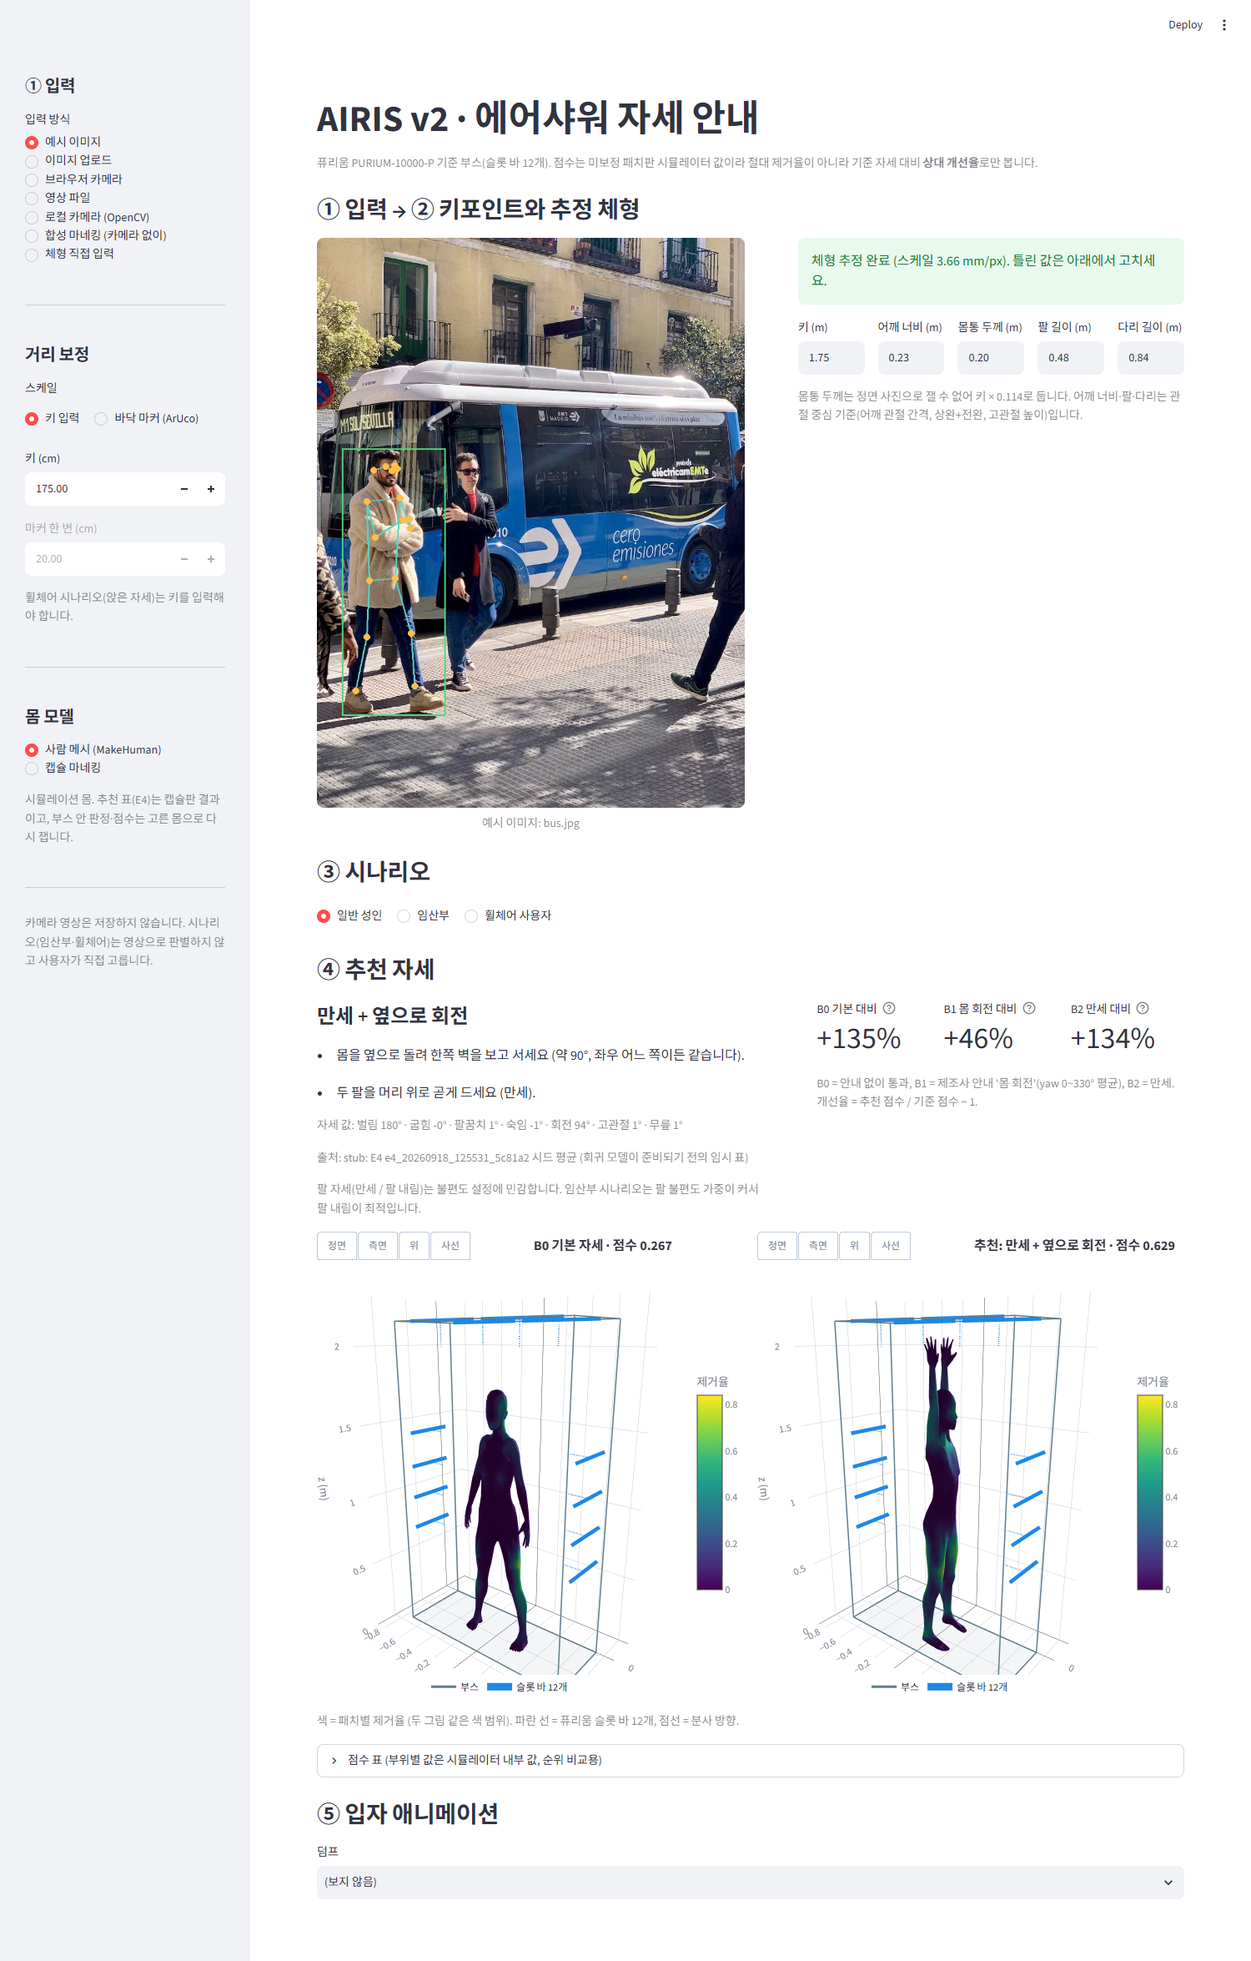
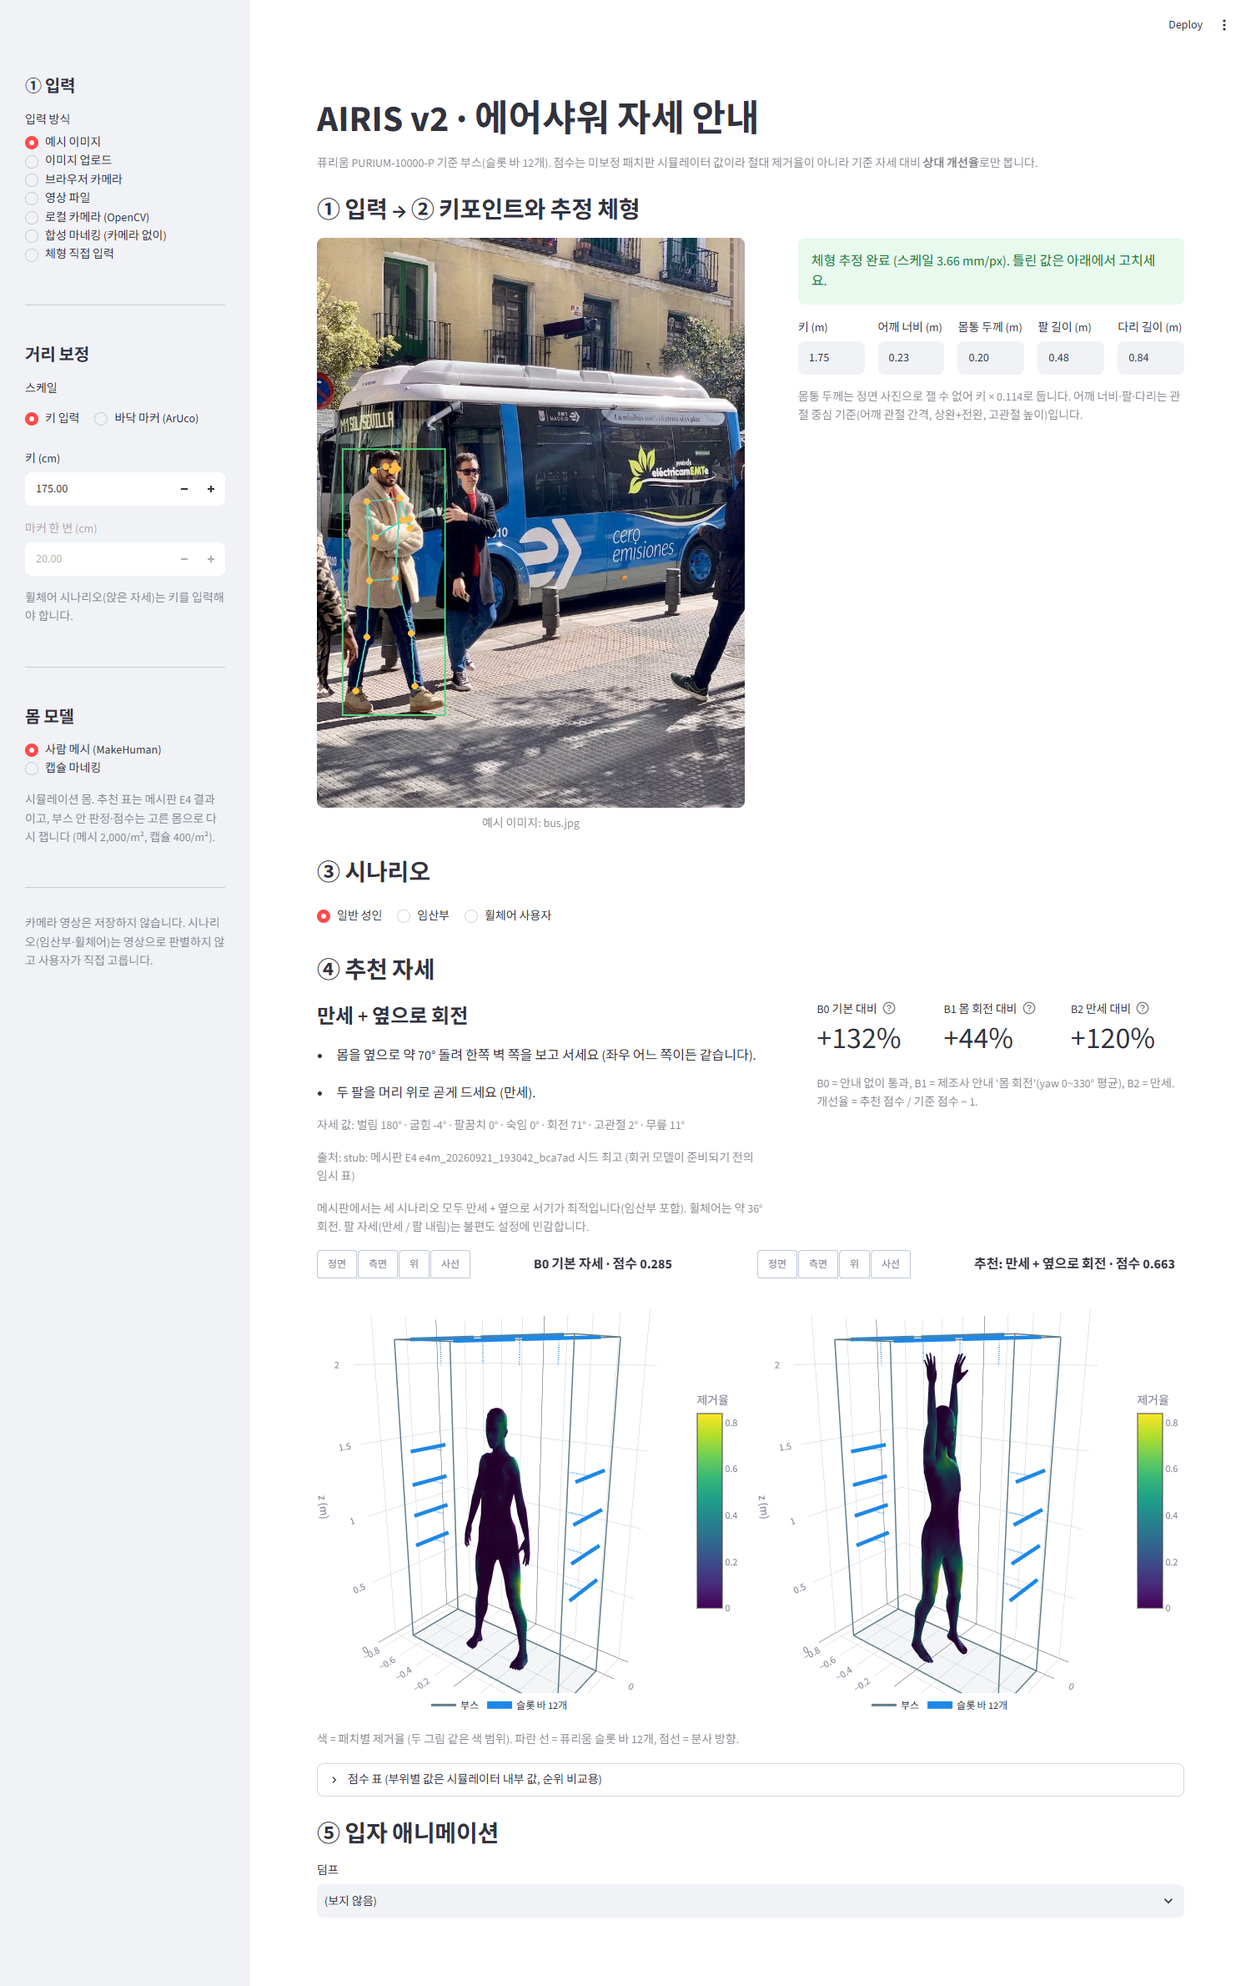
feat: 추천 스텁을 메시판 E4 결과로 갱신, 메시 재채점 2,000/m², 옆으로 서기 안내에 실제 각도

diff --git a/airis/realtime/recommend.py b/airis/realtime/recommend.py
@@ -4,7 +4,7 @@
 
 1. C의 회귀 모델 `airis.model.predict.predict_pose` (4주차, `docs/interfaces.md` "회귀 모델")와
    학습 산출물 `data/models/pose_regressor.joblib`이 있으면 그것을 쓴다.
-2. 없으면 **스텁**: E4 정식 결과의 시나리오별 최적 자세 표(`STUB_TABLE`)를 돌려준다.
+2. 없으면 **스텁**: 메시판 E4 정식 결과의 시나리오별 최적 자세 표(`STUB_TABLE`)를 돌려준다.
    표는 봉우리 후보다(만세 + 옆으로 회전, 팔 내림 + 옆으로 회전). 키가 커서 만세가 천장에
    닿는 체형이면 D의 `outside_booth`로 거르고, 남은 후보는 이 체형으로 패치판 점수를 재서 고른다
    (표는 기본 체형 결과라 체형이 다르면 순위가 바뀔 수 있다).
@@ -15,8 +15,11 @@
 않는다. 결과는 절대 제거율이 아니라 기준 자세(B0·B1·B2) 대비 **상대 개선율**로 보여 준다.
 
 몸 모델: 함수마다 `model`(`"mesh"` | `"capsule"` | None = `configs/physics.yaml` `body.model`)을 받는다.
-`body`가 None이면 그 모델의 기본 체형(메시 `MESH_DEFAULT_BODY`, 캡슐 `BodyParams()`)이다. 추천 표는 캡슐판
-E4 결과지만, 부스 안 판정과 후보 채점은 고른 몸 모델로 다시 한다.
+`body`가 None이면 그 모델의 기본 체형(메시 `MESH_DEFAULT_BODY`, 캡슐 `BodyParams()`)이다. 추천 표 첫 후보는
+메시판 E4 결과이고, 부스 안 판정과 후보 채점은 고른 몸 모델로 다시 한다.
+
+패치 밀도 (`scoring_patches_per_m2`): 메시 2,000/m² (C 메시판 E4 재채점 기준. 400/m² 는 메시에서 점수가
+±10~16% 흔들린다, 1회 약 40~60 ms), 캡슐 400/m² (캡슐판 E4·최적화 루프 기준, 1회 약 25 ms).
 """
 from __future__ import annotations
 
@@ -31,8 +34,15 @@ from ..sim.patch_baseline import PatchEvaluator, outside_booth
 from ..sim.scenario import load_nozzle_layout, load_nozzles, load_physics
 from ..sim.types import PART_NAMES, BodyParams, EvalResult, PoseParams, Scenario
 
-#: 부스 안 판정·점수 계산에 쓰는 패치 밀도 (최적화 루프와 같음)
+#: 캡슐 몸의 부스 안 판정·점수 계산 패치 밀도 (캡슐판 최적화 루프와 같음)
 PATCHES_PER_M2 = 400.0
+#: 메시 몸의 패치 밀도 (C 메시판 E4 재채점과 같음. 400/m² 는 메시에서 점수가 ±10~16% 흔들린다)
+MESH_PATCHES_PER_M2 = 2000.0
+
+
+def scoring_patches_per_m2(model: str | None = None) -> float:
+    """몸 모델별 채점 패치 밀도. 그림을 같은 결과로 칠하려면 같은 밀도로 `build_body` 해야 한다."""
+    return MESH_PATCHES_PER_M2 if resolve_model(model) == "mesh" else PATCHES_PER_M2
 
 
 @dataclass(frozen=True)
@@ -42,34 +52,37 @@ class StubEntry:
     source: str
 
 
-# 첫 후보 = E4 정식 결과 (패치판, 대칭 격자 main 5f353be, 시드 5개 평균, 체형 BodyParams() 기본값).
-#   default·wheelchair 는 만세 봉우리, pregnant 는 팔 내림 봉우리다 (벌림 불편도 가중이 커서).
-# 둘째 후보 = 다른 봉우리. 체형 때문에 첫 후보가 부스 밖이거나 점수가 낮을 때 쓴다. #42(패치 격자
-#   대칭화) 이전 docs/experiments.md 기록이라 값은 참고용이고, recommend() 가 이 체형으로 다시 잰다.
+# 첫 후보 = 메시판 E4 정식 결과 (e4m_20260921_193042_bca7ad: 1,500/m² 탐색 + 2,000/m² 재채점,
+#   3시나리오 × 5시드, 메시 기본 체형). 2,000/m² 재채점 최고 시드. 세 시나리오 모두 만세 + 옆으로 서기
+#   (임산부 포함), 휠체어는 약 36° 회전 (시나리오 yaw 상한 45° 안).
+#   pregnant 원 시드는 yaw 102.1 이지만 앞뒤 등가(θ ↔ 180° − θ 점수 동일)라 안내 일관성을 위해 77.9 로 쓴다.
+# 둘째 후보 = 팔 내림 봉우리 (캡슐판 E4 값, 참고). 체형 때문에 첫 후보가 부스 밖(키가 커서 만세가 천장에
+#   닿음)이거나 이 체형에서 점수가 낮을 때 쓴다. recommend() 가 이 체형·몸 모델로 다시 잰다.
 # yaw 는 좌우 대칭이라 |yaw| 로 적는다 (interfaces.md 거울 정규화).
-E4_SOURCE = "E4 e4_20260918_125531_5c81a2 시드 평균"
+E4_SOURCE = "메시판 E4 e4m_20260921_193042_bca7ad 시드 최고"
+CAPSULE_REF_SOURCE = "캡슐판 참고"
 
 STUB_TABLE: dict[str, list[StubEntry]] = {
     "default": [
         StubEntry("만세 + 옆으로 회전",
-                  PoseParams(179.8, 0.0, 1.4, -0.8, 94.2, 0.6, 1.5), E4_SOURCE),
+                  PoseParams(179.9, -4.4, 0.1, 0.2, 71.0, 1.7, 11.2), E4_SOURCE),     # 0.6544
         StubEntry("팔 내림 + 옆으로 회전",
                   PoseParams(4.8, -3.2, 3.1, 0.5, 98.1, 0.1, 0.2),
-                  "remeasure_20260918_103149_00b235 (#42 이전, 대체 후보)"),
+                  f"{CAPSULE_REF_SOURCE} (remeasure_20260918_103149_00b235, 대체 후보)"),
     ],
     "pregnant": [
-        StubEntry("팔 내림 + 옆으로 회전",
-                  PoseParams(12.5, -3.0, 7.4, -0.1, 84.6, 2.4, 5.3), E4_SOURCE),
         StubEntry("만세 + 옆으로 회전",
-                  PoseParams(180.0, 6.7, 2.6, -0.1, 97.2, 0.9, 2.1),
-                  "starts_20260918_110639_46f4dd (#42 이전, 대체 후보)"),
+                  PoseParams(179.4, -6.0, 0.0, -0.2, 77.9, 0.1, 10.6), E4_SOURCE),    # 0.6342
+        StubEntry("팔 내림 + 옆으로 회전",
+                  PoseParams(12.5, -3.0, 7.4, -0.1, 84.6, 2.4, 5.3),
+                  f"{CAPSULE_REF_SOURCE} (e4_20260918_125531_5c81a2, 대체 후보)"),
     ],
     "wheelchair": [
-        StubEntry("만세 + 몸 45° 회전",
-                  PoseParams(179.9, 7.9, 9.6, 4.4, 44.9, 90.0, 90.0), E4_SOURCE),
+        StubEntry("만세 + 몸 36° 회전",
+                  PoseParams(179.9, 2.5, 8.9, -0.4, 35.8, 90.0, 90.0), E4_SOURCE),    # 0.4319
         StubEntry("팔 내림 + 몸 45° 회전",
                   PoseParams(0.0, -29.9, 14.5, 0.3, 45.0, 90.0, 90.0),
-                  "remeasure_20260918_103307_2bd141 (#42 이전, 대체 후보)"),
+                  f"{CAPSULE_REF_SOURCE} (remeasure_20260918_103307_2bd141, 대체 후보)"),
     ],
 }
 
@@ -105,7 +118,8 @@ def default_body(model: str | None = None) -> BodyParams:
 
 def is_inside_booth(body: BodyParams | None, pose: PoseParams, scenario: Scenario,
                     model: str | None = None) -> bool:
-    state = build_body(body, pose, scenario, patches_per_m2=PATCHES_PER_M2, model=resolve_model(model))
+    model = resolve_model(model)
+    state = build_body(body, pose, scenario, patches_per_m2=scoring_patches_per_m2(model), model=model)
     return not outside_booth(state.patch_pos, _booth())
 
 
@@ -184,7 +198,8 @@ def pose_instructions(pose: PoseParams, scenario: Scenario) -> list[str]:
     elif yaw < 60:
         lines.append(f"몸을 한쪽으로 약 {round(yaw / 5) * 5:.0f}° 돌리세요 (좌우 어느 쪽이든 같습니다).")
     elif yaw <= 120:
-        lines.append("몸을 옆으로 돌려 한쪽 벽을 보고 서세요 (약 90°, 좌우 어느 쪽이든 같습니다).")
+        lines.append(f"몸을 옆으로 약 {round(yaw / 5) * 5:.0f}° 돌려 한쪽 벽 쪽을 보고 서세요 "
+                     "(좌우 어느 쪽이든 같습니다).")
     else:
         lines.append("뒤로 돌아 들어온 문을 보고 서세요.")
 
@@ -236,11 +251,15 @@ class ScoreRow:
     result: EvalResult | None = None     # 단일 자세면 원래 결과 (패치 색칠용)
 
 
-@lru_cache(maxsize=4)
 def patch_evaluator(model: str | None = None) -> PatchEvaluator:
-    """D의 패치판 (400/m²). `model` 을 주면 그 몸 모델로 `build_body` 를 부른다 (None = 설정 파일)."""
-    bb = None if model is None else partial(build_body, model=model)
-    return PatchEvaluator(load_physics(), bb, patches_per_m2=PATCHES_PER_M2)
+    """D의 패치판. 몸 모델(None = 설정 파일)에 맞는 밀도(`scoring_patches_per_m2`)로 `build_body` 를 부른다."""
+    return _patch_evaluator(resolve_model(model))
+
+
+@lru_cache(maxsize=4)
+def _patch_evaluator(model: str) -> PatchEvaluator:
+    return PatchEvaluator(load_physics(), partial(build_body, model=model),
+                          patches_per_m2=scoring_patches_per_m2(model))
 
 
 @lru_cache(maxsize=1)
@@ -280,7 +299,7 @@ def evaluate_condition(name: str, poses: list[PoseParams], body: BodyParams | No
 
 def compare_with_baselines(body: BodyParams | None, scenario: Scenario,
                            recommended: PoseParams, model: str | None = None) -> list[ScoreRow]:
-    """[추천, B0, B1, B2] 점수. 패치판 1회 약 25 ms × 15회. 같은 몸 모델로 채점한다."""
+    """[추천, B0, B1, B2] 점수. 패치판 15회 (메시 2,000/m² 약 0.7 s, 캡슐 400/m² 약 0.4 s). 같은 몸 모델로 채점한다."""
     rows = [evaluate_condition("추천", [recommended], body, scenario, model)]
     rows += [evaluate_condition(n, ps, body, scenario, model) for n, ps in baseline_poses().items()]
     return rows

diff --git a/tests/test_realtime.py b/tests/test_realtime.py
@@ -27,6 +27,7 @@ from airis.realtime.camera import detections_from_result, draw_pose, largest_per
 from airis.realtime.recommend import (STUB_TABLE, compare_with_baselines, improvement,
                                       is_inside_booth, recommend, recommend_pose)
 from airis.sim.body import build_body
+from airis.sim.human_mesh import MESH_DEFAULT_BODY
 from airis.sim.patch_baseline import outside_booth
 from airis.sim.scenario import load_nozzle_layout, load_scenarios
 from airis.sim.types import BodyParams, PoseParams
@@ -267,19 +268,30 @@ def test_recommend_pose_inside_booth_and_bounds(scenario):
         assert getattr(pose, key) == v
 
 
-@pytest.mark.parametrize("scenario,arms_up", [("default", True), ("pregnant", False),
-                                              ("wheelchair", True)])
-def test_stub_first_entry_is_e4_best_for_default_body(scenario, arms_up):
-    """기본 체형이면 E4 정식 결과(첫 후보)를 그대로 고른다. pregnant 는 팔 내림 봉우리."""
+@pytest.mark.parametrize("scenario", ["default", "pregnant", "wheelchair"])
+def test_stub_first_entry_is_mesh_e4_best_for_default_body(scenario):
+    """메시 기본 체형이면 메시판 E4 결과(첫 후보, 세 시나리오 모두 만세)를 그대로 고른다."""
     from airis.optimize.encoding import PoseEncoder
     from airis.realtime.recommend import E4_SOURCE
     sc = SCENARIOS[scenario]
-    rec = recommend(CAPSULE_BODY, sc, use_model=False, model="capsule")
+    rec = recommend(MESH_DEFAULT_BODY, sc, use_model=False, model="mesh")
     first = STUB_TABLE[scenario][0]
     assert rec.source == f"stub: {E4_SOURCE}"
     assert rec.label == first.label and rec.pose == PoseEncoder(sc).clip_pose(first.pose)
-    assert (rec.pose.shoulder_abduction > 170.0) == arms_up
+    assert rec.pose.shoulder_abduction > 170.0
     assert not rec.notes
+
+
+@pytest.mark.parametrize("scenario,expected", [
+    ("default", (0.2469, 0.4405, 0.2463)), ("pregnant", (0.2639, 0.4409, 0.2364)),
+    ("wheelchair", (0.1824, 0.2652, 0.3212))])
+def test_mesh_baselines_match_mesh_e4_rescoring(scenario, expected):
+    """메시 몸 기준선 B0·B1·B2 가 C 메시판 E4 재채점(2,000/m²) 값과 같다 (채점 밀도가 맞는지)."""
+    from airis.realtime.recommend import MESH_PATCHES_PER_M2, scoring_patches_per_m2
+    assert scoring_patches_per_m2("mesh") == MESH_PATCHES_PER_M2 == 2000.0
+    rows = compare_with_baselines(MESH_DEFAULT_BODY, SCENARIOS[scenario], PoseParams(), model="mesh")
+    got = tuple(r.score for r in rows[1:])
+    assert got == pytest.approx(expected, abs=5e-4)
 
 
 def test_tall_body_falls_back_to_arms_down_peak():
@@ -368,7 +380,11 @@ def test_stub_ranks_candidates_by_score_for_this_body(monkeypatch):
 def test_pose_instructions():
     from airis.realtime.recommend import pose_instructions
     lines = pose_instructions(STUB_TABLE["default"][0].pose, SCENARIOS["default"])
-    assert any("만세" in s for s in lines) and any("90°" in s for s in lines)
+    assert any("만세" in s for s in lines) and any("약 70°" in s for s in lines)   # yaw 71.0 → 5° 단위
+    lines = pose_instructions(PoseParams(torso_yaw=-92.0), SCENARIOS["default"])
+    assert any("약 90°" in s and "옆으로" in s for s in lines)                  # 좌우 부호는 말하지 않는다
+    lines = pose_instructions(STUB_TABLE["wheelchair"][0].pose, SCENARIOS["wheelchair"])
+    assert any("약 35°" in s for s in lines) and any("만세" in s for s in lines)
     lines = pose_instructions(STUB_TABLE["wheelchair"][1].pose, SCENARIOS["wheelchair"])
     assert lines[0].startswith("휠체어") and any("45°" in s for s in lines)
     assert any("내리세요" in s for s in lines)
@@ -421,7 +437,6 @@ def test_dashboard_capsule_model_query():
 # ---------------------------------------------------------------------------
 # 메시 몸 (관절 중심 BodyParams 정의, docs/interfaces.md). 전역 기본값은 아직 캡슐이라 model="mesh" 를 명시한다.
 # ---------------------------------------------------------------------------
-from airis.sim.human_mesh import MESH_DEFAULT_BODY  # noqa: E402
 
 MESH_BODIES = {
     "메시 기본": MESH_DEFAULT_BODY,
@@ -501,7 +516,9 @@ def test_recommend_and_compare_with_mesh_body(scenario):
     assert is_inside_booth(None, rec.pose, sc, "mesh")
     rows = compare_with_baselines(None, sc, rec.pose, model="mesh")
     by = {r.name: r for r in rows}
-    n_patch = build_body(None, rec.pose, sc, patches_per_m2=400, model="mesh").patch_pos.shape[0]
+    from airis.realtime.recommend import scoring_patches_per_m2
+    n_patch = build_body(None, rec.pose, sc, patches_per_m2=scoring_patches_per_m2("mesh"),
+                         model="mesh").patch_pos.shape[0]
     assert len(by["추천"].result.extra["removal"]) == n_patch             # 메시 패치로 채점
     for name in ("B0 기본", "B1 몸 회전"):
         assert improvement(by["추천"], by[name]) > 0.0

diff --git a/scripts/run_dashboard.py b/scripts/run_dashboard.py
@@ -33,7 +33,8 @@ import streamlit as st                                                # noqa: E4
 
 from airis.realtime import camera, pose_estimate as pe               # noqa: E402
 from airis.realtime.recommend import (compare_with_baselines, default_body,  # noqa: E402
-                                      improvement, pose_instructions, recommend)
+                                      improvement, pose_instructions, recommend,
+                                      scoring_patches_per_m2)
 from airis.sim.body import build_body                                 # noqa: E402
 from airis.sim.scenario import load_nozzle_layout, load_scenarios     # noqa: E402
 from airis.sim.types import PART_NAMES, BodyParams, PoseParams       # noqa: E402
@@ -199,7 +200,8 @@ def main() -> None:
         body_model = BODY_MODELS[st.radio(
             "몸 모델", model_labels, index=1 if q.get("model") == "capsule" else 0,
             label_visibility="collapsed")]
-        st.caption("시뮬레이션 몸. 추천 표(E4)는 캡슐판 결과이고, 부스 안 판정·점수는 고른 몸으로 다시 잽니다.")
+        st.caption("시뮬레이션 몸. 추천 표는 메시판 E4 결과이고, 부스 안 판정·점수는 고른 몸으로 다시 잽니다 "
+                   "(메시 2,000/m², 캡슐 400/m²).")
         st.divider()
         st.caption("카메라 영상은 저장하지 않습니다. 시나리오(임산부·휠체어)는 영상으로 판별하지 않고 "
                    "사용자가 직접 고릅니다.")
@@ -307,7 +309,8 @@ def main() -> None:
             st.markdown(f"- {line}")
         st.caption(f"자세 값: {pose_label(rec.pose)}")
         st.caption(f"출처: {rec.source}" + (" (회귀 모델이 준비되기 전의 임시 표)" if rec.source.startswith("stub") else ""))
-        st.caption("팔 자세(만세 / 팔 내림)는 불편도 설정에 민감합니다. 임산부 시나리오는 팔 불편도 가중이 커서 팔 내림이 최적입니다.")
+        st.caption("메시판에서는 세 시나리오 모두 만세 + 옆으로 서기가 최적입니다(임산부 포함). 휠체어는 약 36° 회전. "
+                   "팔 자세(만세 / 팔 내림)는 불편도 설정에 민감합니다.")
         for note in rec.notes:
             st.info(note)
     with metrics:
@@ -320,6 +323,7 @@ def main() -> None:
                    "개선율 = 추천 점수 / 기준 점수 − 1.")
 
     booth = load_nozzle_layout()["booth"]
+    density = scoring_patches_per_m2(body_model)            # 채점과 같은 밀도로 그려야 패치 색이 맞는다
     cmax = max(float(np.max(r.result.extra["removal"])) for r in (rec_row, by["B0 기본"])
                if r.result is not None and not r.infeasible)
     f1, f2 = st.columns(2)
@@ -327,12 +331,12 @@ def main() -> None:
         b0 = by["B0 기본"]
         fig = figure_from_pose(body, PoseParams(), scenario, result=b0.result, booth=booth,
                                title=f"B0 기본 자세 · 점수 {b0.score:.3f}", cmin=0.0, cmax=cmax,
-                               height=560, model=body_model)
+                               height=560, model=body_model, patches_per_m2=density)
         st.plotly_chart(fig, **WIDE)
     with f2:
         fig = figure_from_pose(body, rec.pose, scenario, result=rec_row.result, booth=booth,
                                title=f"추천: {rec.label} · 점수 {rec_row.score:.3f}", cmin=0.0,
-                               cmax=cmax, height=560, model=body_model)
+                               cmax=cmax, height=560, model=body_model, patches_per_m2=density)
         st.plotly_chart(fig, **WIDE)
     st.caption("색 = 패치별 제거율 (두 그림 같은 색 범위). 파란 선 = 퓨리움 슬롯 바 12개, 점선 = 분사 방향.")
 

diff --git a/tests/test_viz.py b/tests/test_viz.py
@@ -509,7 +509,8 @@ def test_makehuman_pose_speed(mh):
 
 def test_figure_from_mesh(mh):
     v = hm.posed_in_booth(mh, MESH_BODY, PoseParams(), SCENARIOS["default"], BOOTH)
-    state = build_body(BodyParams(), PoseParams(), SCENARIOS["default"], patches_per_m2=400)   # 캡슐 겹침
+    state = build_body(BodyParams(), PoseParams(), SCENARIOS["default"], patches_per_m2=400,
+                       model="capsule")                                                   # 캡슐 겹침
     fig = hmv.figure_from_mesh(v, mh.faces, overlay_state=state, booth=BOOTH)
     assert {"사람 메시", "캡슐 마네킹 (반투명)", "부스", "슬롯 바 12개"} <= _names(fig)
     fig.to_dict()
